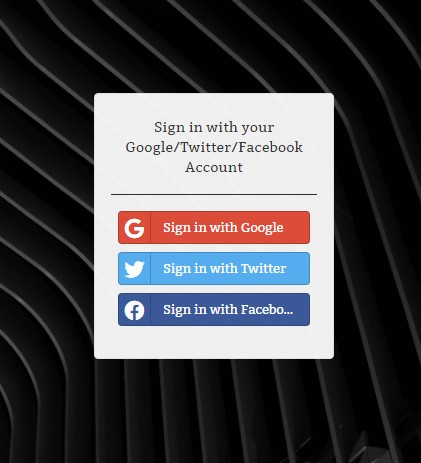
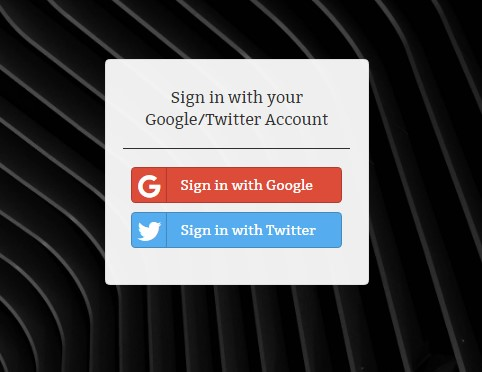
heading removed

diff --git a/client/src/components/clientlayout/login/Login.js b/client/src/components/clientlayout/login/Login.js
@@ -11,7 +11,7 @@ class MainPage extends React.Component {
         <div className="full-spread d-flex justify-content-center align-items-center">
           <div className="signupbox border rounded px-3 py-4 m-5">
             <h5 className="text-center">
-              Sign in with your Google/Twitter/Facebook Account
+              Sign in with your Google/Twitter Account
             </h5>
             <hr />
             <div className="d-flex flex-column align-items-center">

diff --git a/client/src/components/clientlayout/signup/Signup.js b/client/src/components/clientlayout/signup/Signup.js
@@ -9,7 +9,7 @@ function MainPage() {
       <div className="full-spread d-flex justify-content-center align-items-center">
         <div className="signupbox border rounded px-3 py-4 m-5">
           <h5 className="text-center">
-            Join ParkEZ with your Google/Twitter/Facebook Account
+            Join ParkEZ with your Google/Twitter Account
           </h5>
           <hr />
           <div className="d-flex flex-column align-items-center">
